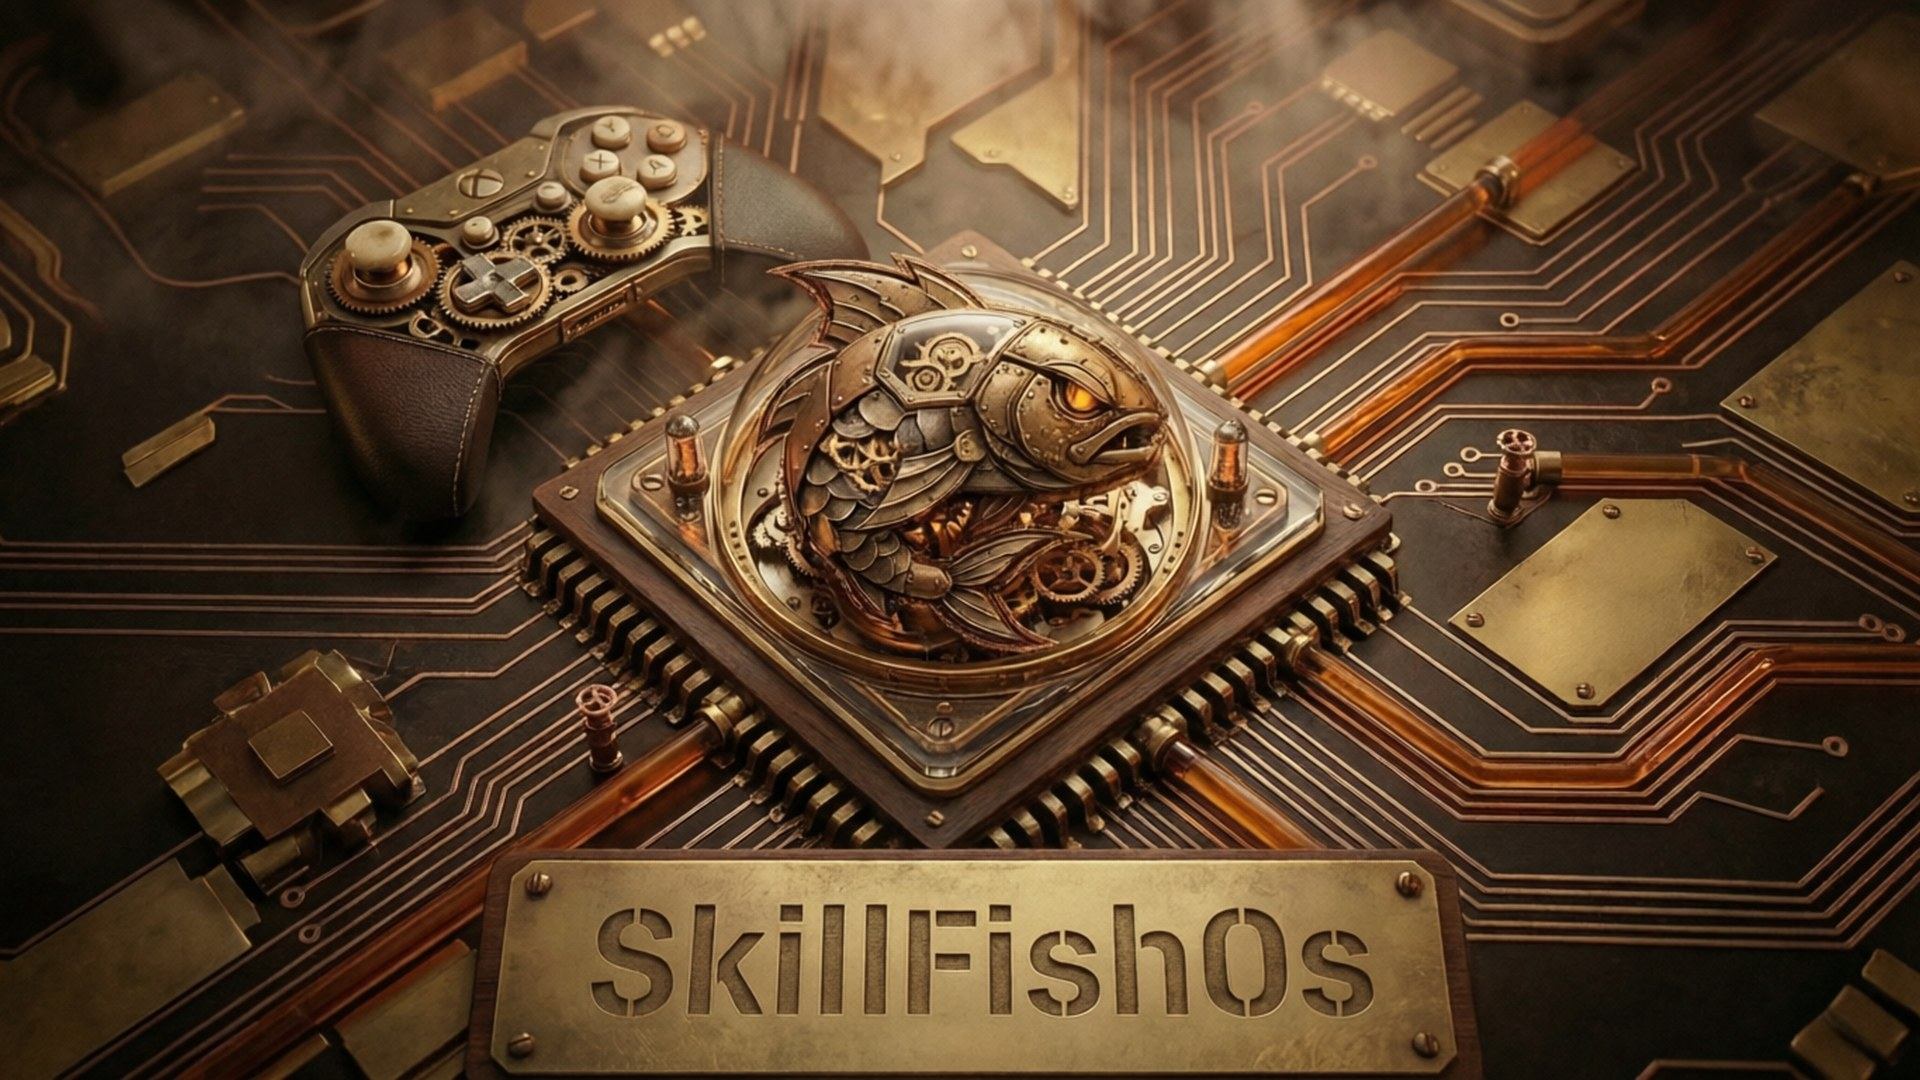
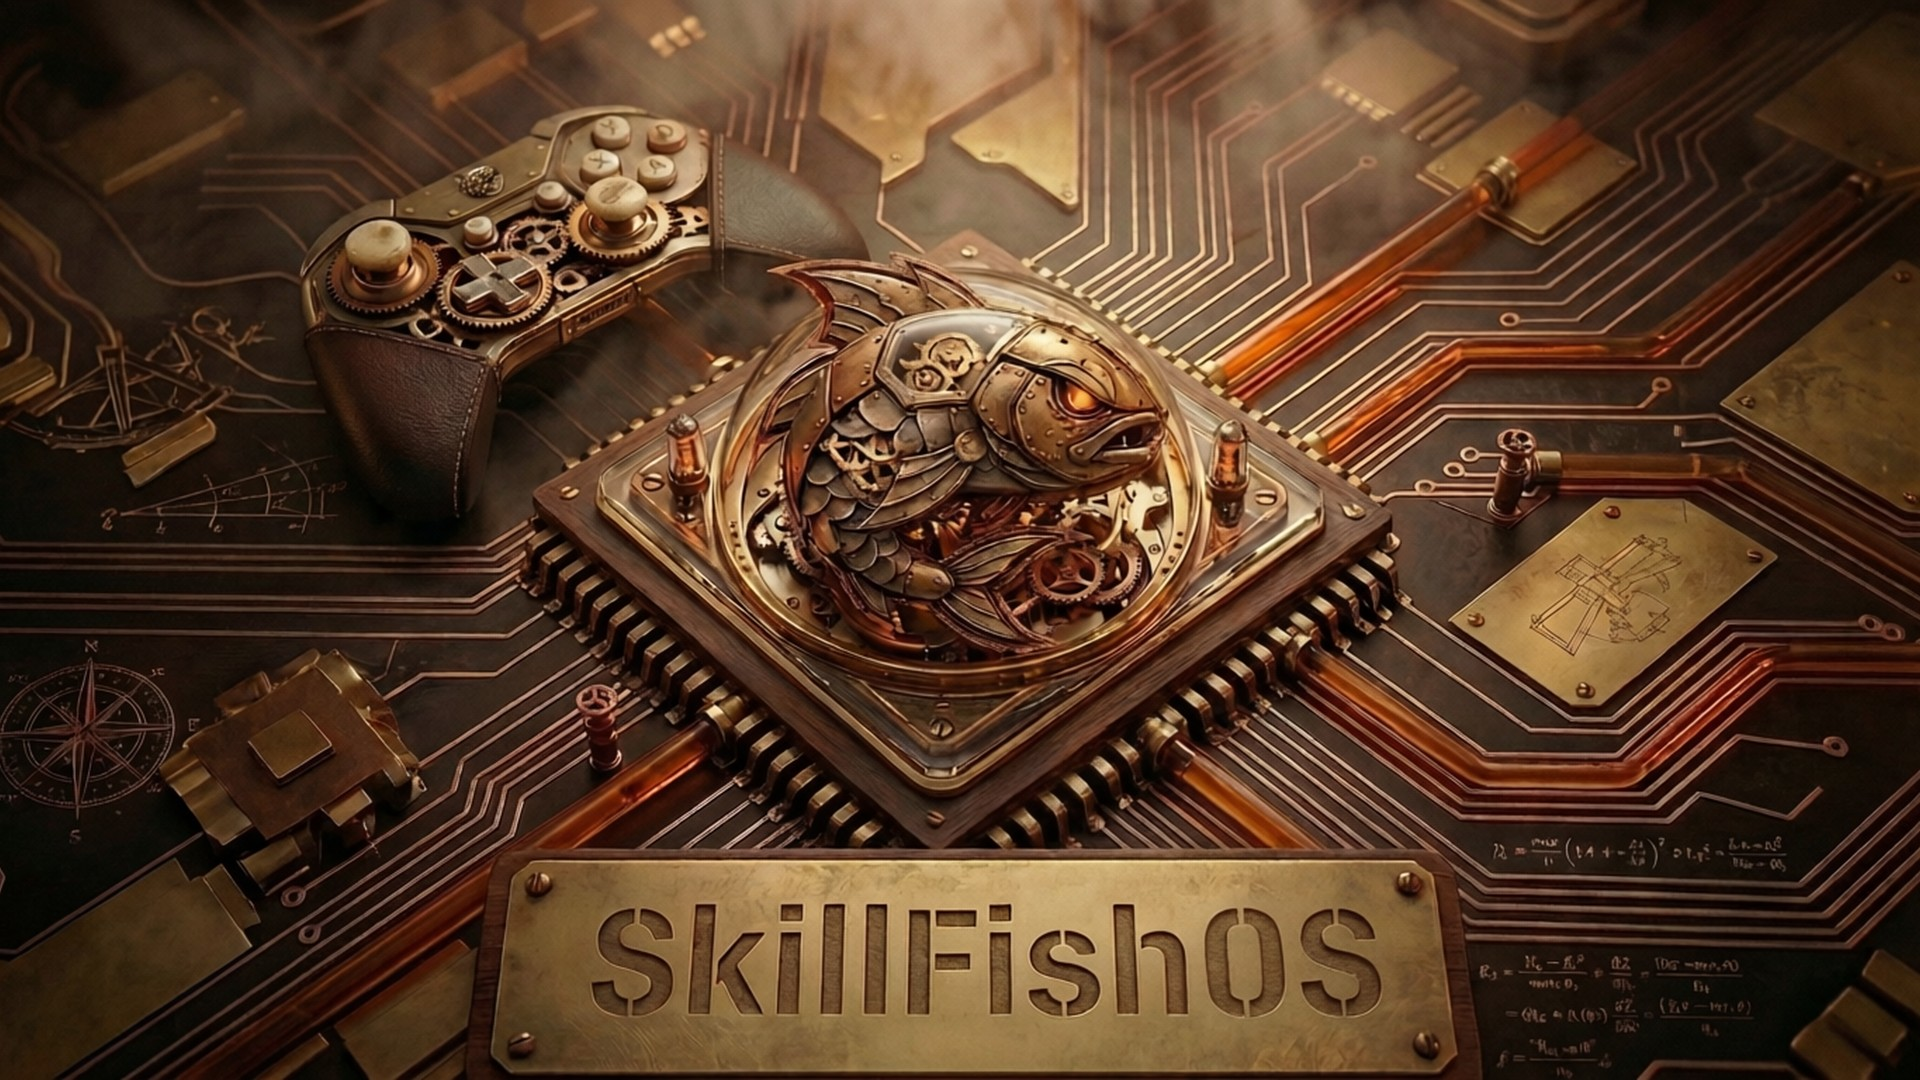
Fix SkillFishOs -> SkillFishOS casing everywhere (text + images)
- Boot splash plate: transplant the correct "SkillFishOS" nameplate from
  the current BC-250 wallpaper onto the Plymouth splash (plymouth-splash.png,
  system splash.png) and regenerate grub-bg.png from it.
- Wallpaper: replace the stale repo brass wallpaper with the current,
  correctly-branded one (theme/wallpapers/wallpaper_brass.jpg).
- Text branding fixed to SkillFishOS in: usr/lib/os-release, etc/issue,
  etc/issue.net, etc/default/grub (GRUB_DISTRIBUTOR), Plymouth theme
  (.plymouth/.script), SDDM theme (Main.qml login text + metadata.desktop),
  icon theme comment, website contact.php, system/README.md.

diff --git a/system/usr/share/sddm/themes/skillfish-brass/Main.qml b/system/usr/share/sddm/themes/skillfish-brass/Main.qml
@@ -31,7 +31,7 @@ Rectangle {
         }
     }
 
-    // SkillFishOs mechanical fish (cut-out, transparent bg), above the clock
+    // SkillFishOS mechanical fish (cut-out, transparent bg), above the clock
     Image {
         id: fish
         source: "fish.png"
@@ -74,7 +74,7 @@ Rectangle {
             spacing: 16
 
             Text {
-                text: "SkillFishOs"
+                text: "SkillFishOS"
                 color: cream
                 font.pixelSize: 22; font.bold: true
                 Layout.alignment: Qt.AlignHCenter

diff --git a/website/public/contact.php b/website/public/contact.php
@@ -5,7 +5,7 @@
 session_start();
 
 const RECIPIENT = '[email redacted]';
-const FROM      = 'SkillFishOs <[email redacted]>';
+const FROM      = 'SkillFishOS <[email redacted]>';
 
 // --- resolve a safe local return path (prevents open redirects) ---
 $ret = $_POST['ret'] ?? '/contact';
@@ -56,7 +56,7 @@ $tlabel = $types[$type] ?? 'Richiesta';
 $safeName  = str_replace(["\r", "\n"], ' ', $name);
 $safeEmail = str_replace(["\r", "\n"], '', $email);
 
-$subject = "[SkillFishOs] $tlabel - $safeName";
+$subject = "[SkillFishOS] $tlabel - $safeName";
 $body  = "Tipo richiesta: $tlabel\n";
 $body .= "Nome: $safeName\n";
 $body .= "Email: $safeEmail\n";

diff --git a/system/README.md b/system/README.md
@@ -21,7 +21,7 @@ no VNC password — VNC is `-nopw` LAN-only, autologin has no stored password).
 | `etc/default/grub` | kernel cmdline (mitigations=off, 40-CU, gttsize, ttm, video=DP-1:e) |
 | `etc/sddm.conf.d/` | autologin skillfish → `plasmax11`, Relogin, brass theme |
 | `etc/NetworkManager/NetworkManager.conf` | `[ifupdown] managed=true` (enp4s0 visible in GUI) |
-| `etc/xdg/kcm-about-distrorc`, `etc/os-release`, `usr/lib/os-release`, `etc/issue` | branding (SkillFishOs, skillfishos.com) |
+| `etc/xdg/kcm-about-distrorc`, `etc/os-release`, `usr/lib/os-release`, `etc/issue` | branding (SkillFishOS, skillfishos.com) |
 | `usr/share/libdrm/amdgpu.ids` | GPU name "AMD Cyan SkillFish (APU)" (device 13FE) |
 | `etc/polkit-1/`, `usr/share/polkit-1/actions/` | iso-mount rule + Tuner policy (all-yes, no password on a personal box) |
 | `usr/share/{sddm,plymouth}/themes/`, `boot/grub/themes/skillfish/` | brass boot→login branding |